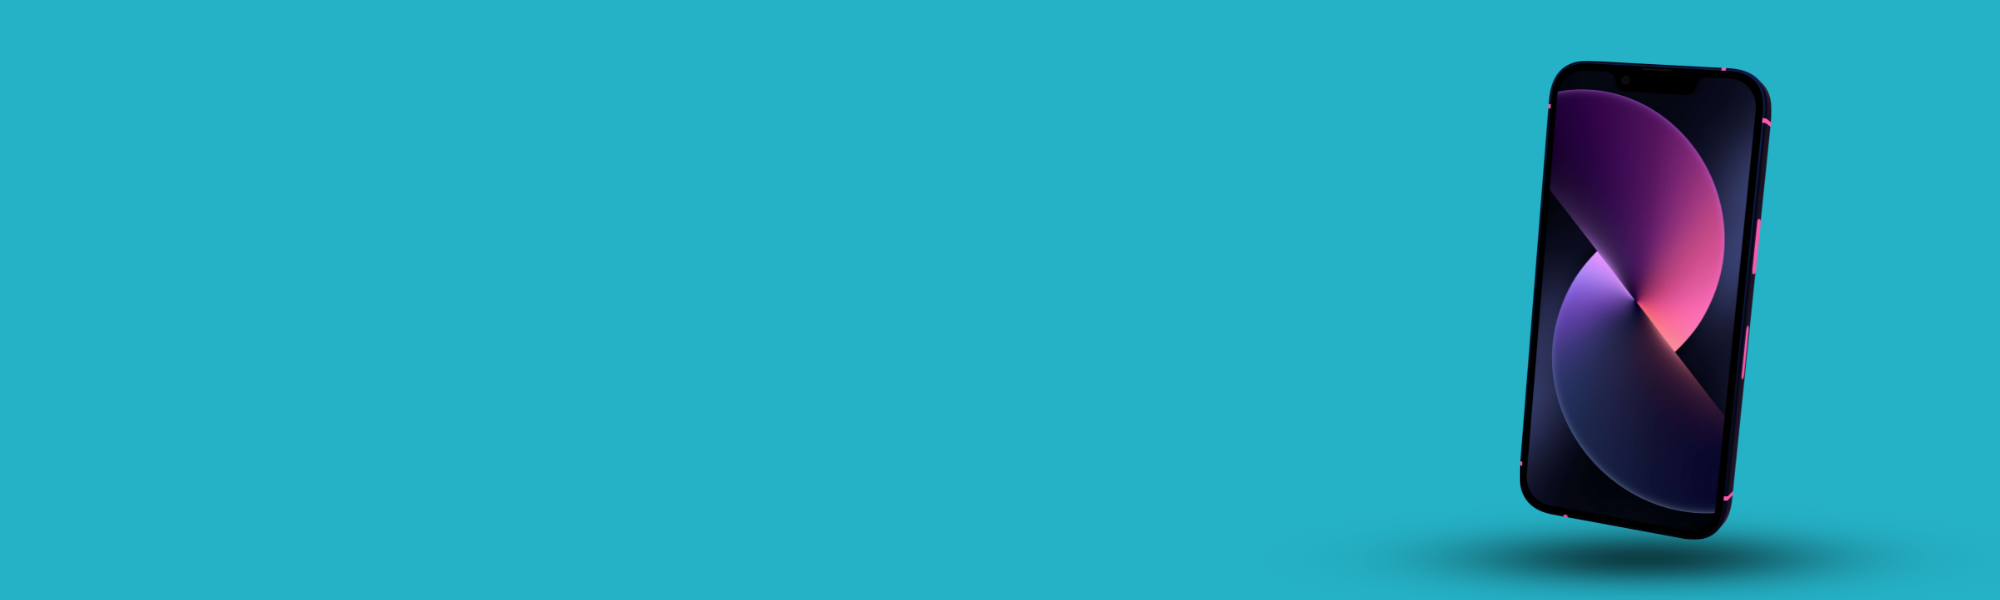
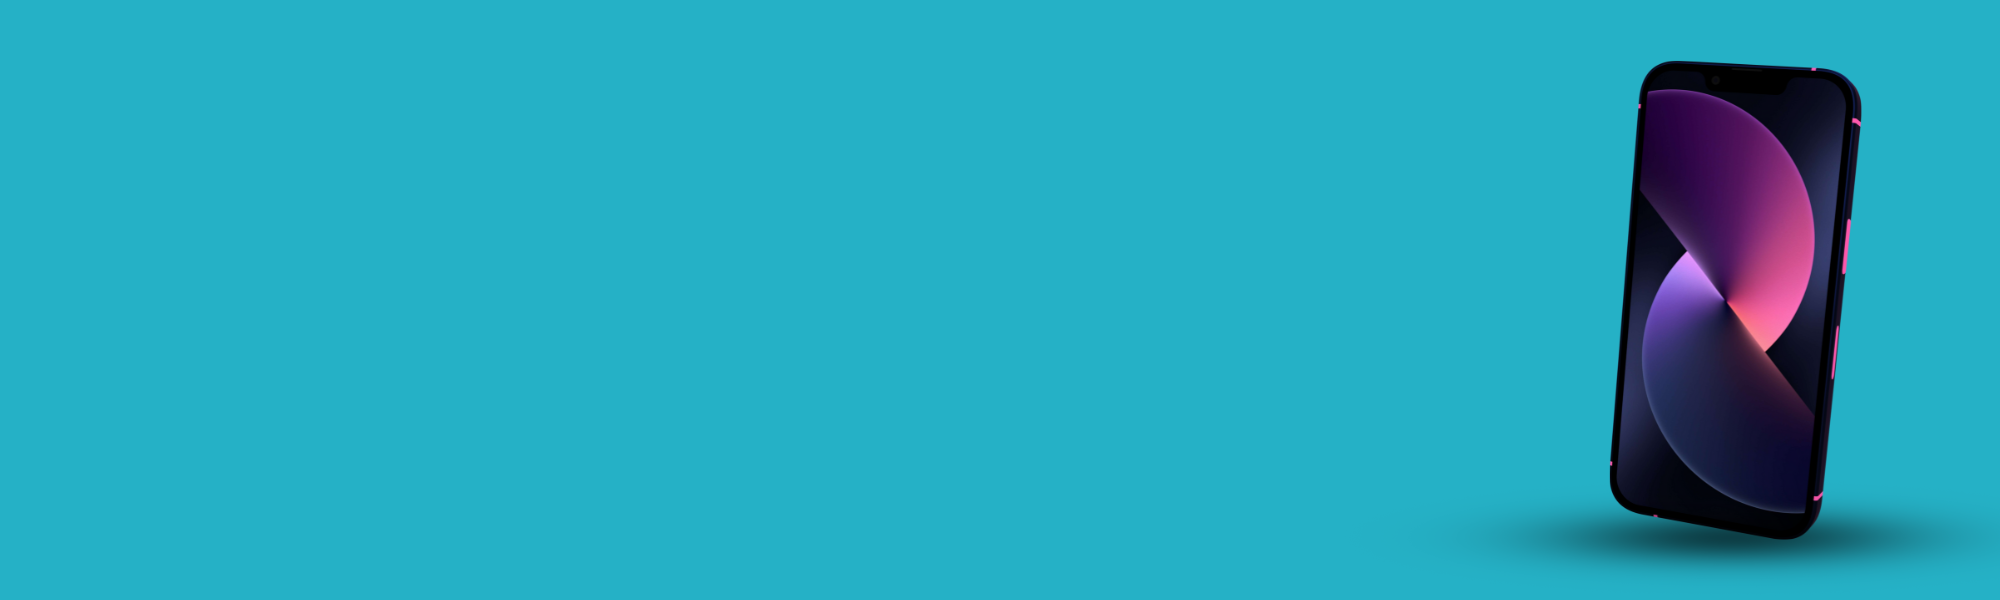
recheck slide

Changed region(s): [[0.713, 0.09, 0.992, 0.99]]

diff --git a/index.html b/index.html
@@ -2746,8 +2746,8 @@
 
             <div class="grid relative grid-cols-1 md:grid-cols-2 lg:grid-cols-2 mt-4   custom-container gap-7">
                 <div class="rounded flex items-center w-[100%] h-[190px] section-divvv">
-                    <div class="px-10    ">
-                        <p class="text-white   leading-8 pt-0 text-[18px]  ">
+                    <div class="px-10 ">
+                        <p class="text-white leading-8 pt-0 text-[18px]  ">
                             Baper Buzz <br> iPhone 12 Pro Max $1200
                         </p>
                         <p class="text-white flex text-start text-sm mt-4">

diff --git a/styles/main.css b/styles/main.css
@@ -879,6 +879,13 @@ button {
     transform: scale(1.1);
 }
 
+@media screen and (max-width: 1224px) {
+    .section-divvv::before {
+        background-position: right;
+    }
+}
+
+
 .section-div-6 {
     position: relative;
     overflow: hidden;
@@ -903,6 +910,13 @@ button {
 .section-div-6:hover::before {
     transform: scale(1.1);
 }
+
+@media screen and (max-width: 1220px) {
+    .section-div-6::before {
+        background-position: right;
+    }
+}
+
 
 .section-div-5 {
     position: relative;
